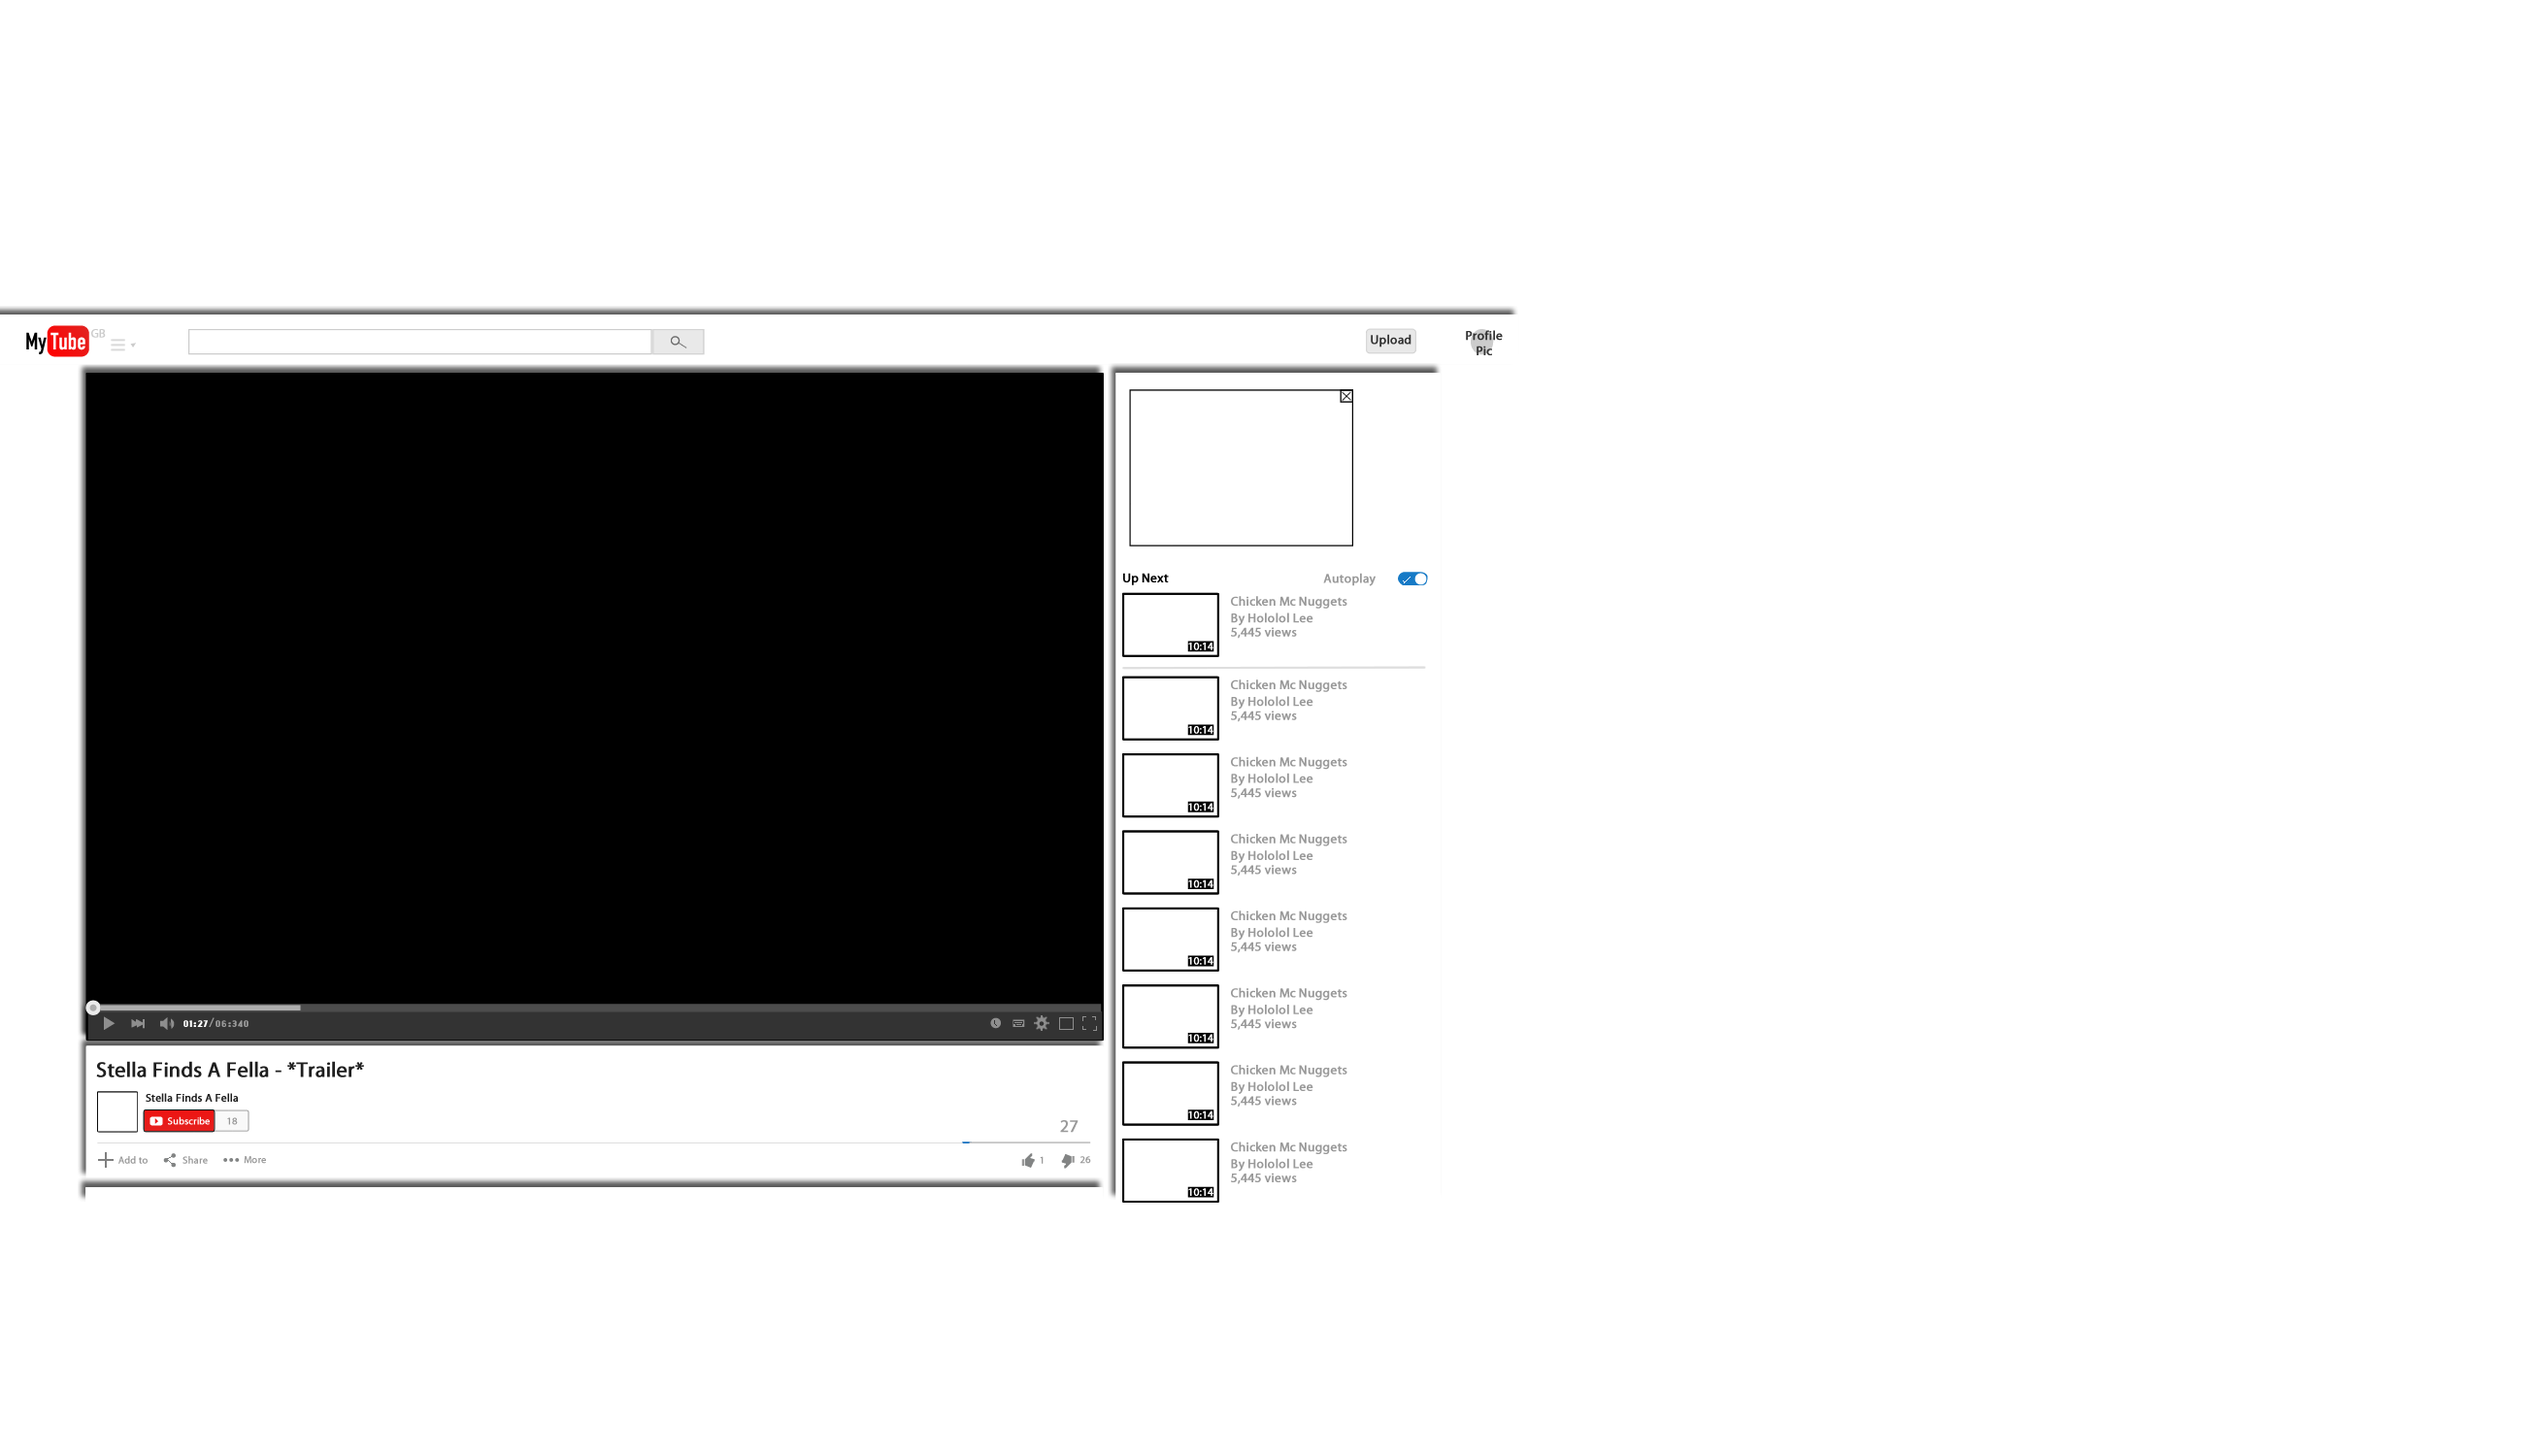
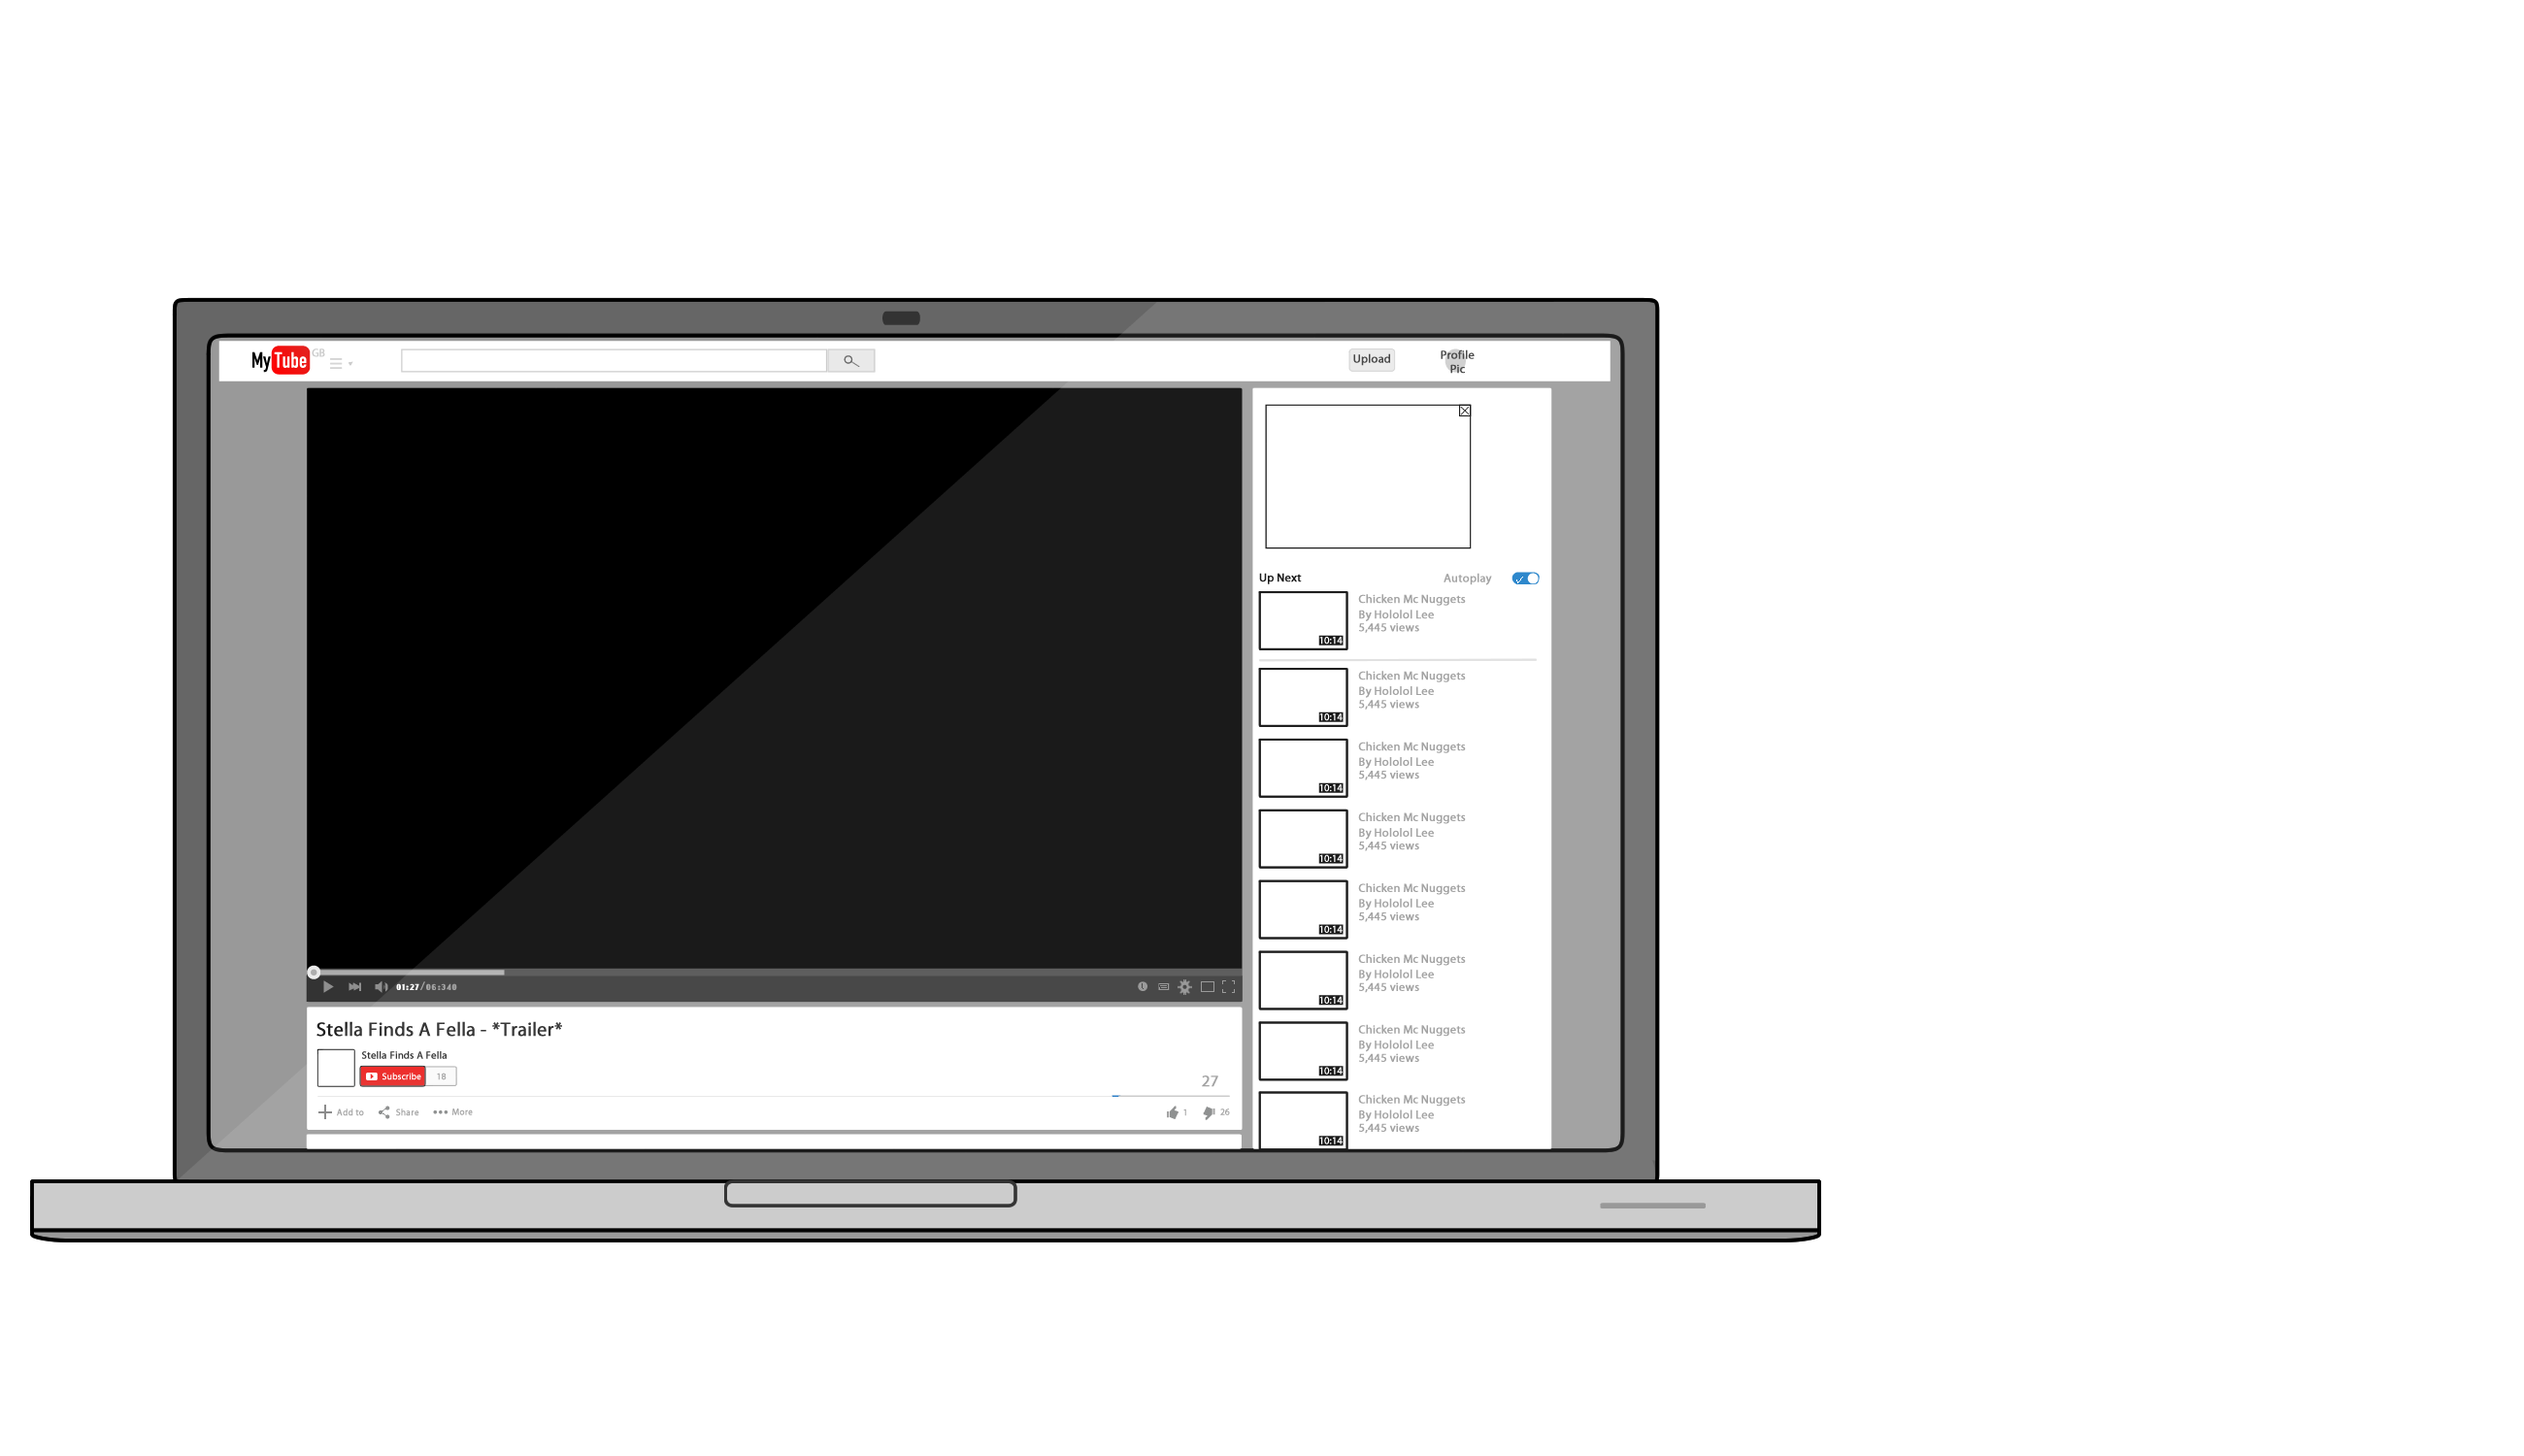
Added laptop

Changed region(s): [[0.0, 0.184, 0.7477, 0.8587]]

diff --git a/index.html b/index.html
@@ -21,11 +21,8 @@
         </div>
         <!--Panel 2 YouTube-->
         <div class="parallax-window" data-parallax="scroll" data-image-src="images/panelbackgrounds/panel3.png" data-speed="0.1">
-            <div><img src="images/backgrounds/panel_2.png"</div>
-        </div>
-         <!--Break 2-->
-        <div class="parallax-window" data-parallax="scroll" data-image-src="images/panelbackgrounds/panel4.png" data-speed="2">
-        </div>    
+            <div> <img src="images/backgrounds/panel_2.png"> </div>
+        </div> 
         <!--Panel 3 TEXTING-->
         <div class="parallax-window tindor" data-parallax="scroll" data-parallax="scroll" data-image-src="images/backgrounds/panel-3.png" style="width:100%" data-speed="0">
             <div class="container">
@@ -55,11 +52,18 @@
         <div class="parallax-window" data-parallax="scroll" data-image-src="images/panelbackgrounds/panel7.png" data-speed="1">
         </div> 
      
-         <!--Panel 6 Restaurant-->
+         <!--Panel 6 Select dates-->
          <div class="parallax-window" data-parallax="scroll" data-image-src="images/panelbackgrounds/panel8.png" data-speed="1">
-            <div class="container"> 
-                <img src="images/menu.png">
-            </div>
+            <div class="circle"></div>
+            <div class="circle"></div>
+        
+            <div class="clearfix"></div>
+        
+            <div class="circle"></div>
+            <div class="circle"></div>
+        
+            <img  id="mainimage" class="selected" src="images/chicken.jpg">
+             
         </div>
         
            <!--Panel 8 Radio-->

diff --git a/css/main.css b/css/main.css
@@ -53,3 +53,33 @@ clearfix {
 #chat{
     z-index:2;
 }
+
+
+/*ATTEMPT */
+.circle {
+    border: 1px solid #363636;
+    border-radius: 200px;
+    background: #dfdfdf;
+    float: left;
+    margin: 10px;
+    height: 200px;
+    width: 200px;  
+    transition: all 1s;
+}
+
+.circle:hover {
+    opacity: 0.5;   
+}
+
+
+.clearfix { /* Makes box go underneath when declared in div? */
+ clear: both;   
+    
+}
+
+
+/* How it looks when selected */
+.selected { 
+   background-image: url(../images/chicken.jpg);
+   background-size: cover;
+}

diff --git a/scripts/scripts.js b/scripts/scripts.js
@@ -19,7 +19,14 @@ $(document).ready(function() {
     });
 });
     
+// For dates
 
+   $("circle").click(function() { //Grab the boxes and when clicked, run the function.
+        console.log("ready");
+        $(this).toggleClass("selected"); //'this' refers to what the user has interacted with. You can reference anthing. more than one.
+                              
+    });
+    
 
 
 
